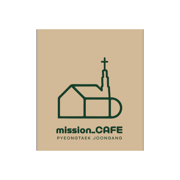
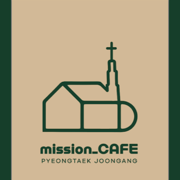
fix(pwa): 관리자 앱 아이콘 하얀 테두리 제거 및 로고 크기 최적화 (미션카페 관리자)

diff --git a/frontend/src/constants/releaseNotes.ts b/frontend/src/constants/releaseNotes.ts
@@ -23,6 +23,7 @@ export const RELEASE_NOTES: ReleaseNote[] = [
     updates: [
       { text: '사용자 주문 앱과 분리된 관리자 전용 독립 PWA 매니페스트(manifest-admin.webmanifest, scope: /admin/) 구축', isNew: true },
       { text: '관리자 전용 로고(admin_logo.png) 기반 앱 아이콘(admin-pwa-192, admin-pwa-512, admin-apple-touch-icon) 및 admin.html 적용', isNew: true },
+      { text: '관리자 앱 아이콘 테두리 하얀 여백 제거 및 로고 크기 꽉 차게 최적화 (단축명: 미션카페 관리자)', isNew: true },
       { text: 'Vercel /admin/* URL rewrite 설정으로 관리자 독립 홈 화면 추가 기능 지원', isNew: true }
     ]
   },

diff --git a/frontend/admin.html b/frontend/admin.html
@@ -11,7 +11,7 @@
   <link rel="manifest" href="/manifest-admin.webmanifest" />
   <meta name="apple-mobile-web-app-capable" content="yes" />
   <meta name="apple-mobile-web-app-status-bar-style" content="default" />
-  <meta name="apple-mobile-web-app-title" content="카페 관리자" />
+  <meta name="apple-mobile-web-app-title" content="미션카페 관리자" />
   <link rel="stylesheet" as="style" crossorigin
     href="https://cdn.jsdelivr.net/gh/orioncactus/pretendard@v1.3.9/dist/web/static/pretendard.min.css" />
 </head>

diff --git a/docs/develop/18_ADMIN_PWA_ANTIGRAVITY_PROMPT.md b/docs/develop/18_ADMIN_PWA_ANTIGRAVITY_PROMPT.md
@@ -1,0 +1,60 @@
+# Antigravity 실행 프롬프트 — 관리자 전용 PWA
+
+아래 문구와 함께 `18_ADMIN_PWA_SEPARATE_INSTALL.md`를 전달한다.
+
+```text
+저장소 루트에서 docs/antigravity/18_ADMIN_PWA_SEPARATE_INSTALL.md를 읽고,
+문서에 정의된 범위만 구현해 주세요.
+
+현재 Holy-Order는 하나의 React/Vite 앱에서 사용자 주문 화면과 /admin 관리자 화면을
+같이 제공하고 있으며, VitePWA 매니페스트와 index.html이 사용자 앱 기준으로 하나만
+존재합니다. 따라서 /admin에서 홈 화면에 추가해도 사용자 앱 이름과 아이콘으로
+설치될 수 있습니다.
+
+이번 작업의 목표는 같은 Vercel 프로젝트와 같은 백엔드를 유지하면서 다음 두 앱을
+홈 화면에 구분해 설치할 수 있도록 만드는 것입니다.
+
+- 사용자 PWA: 평택중앙교회 카페 / 시작 URL /
+- 관리자 PWA: 평택중앙교회 카페 관리자 / 시작 URL /admin/
+
+구현 전 현재 main 브랜치의 vite.config.ts, index.html, vercel.json, main.tsx,
+App.tsx, sw.ts와 관리자 라우트를 먼저 확인하세요. 문서의 예시를 맹목적으로 복사하지
+말고 현재 vite-plugin-pwa 버전과 실제 빌드 결과에 맞게 적용하세요.
+
+핵심 원칙은 다음과 같습니다.
+
+1. 기존 사용자 PWA의 앱 정체성을 보존하기 위해 사용자 manifest id는 /로 유지합니다.
+2. 관리자 manifest id는 /admin/으로 분리합니다.
+3. 사용자와 관리자용 HTML entry, manifest, apple-touch-icon, 앱 아이콘을 분리합니다.
+4. Vercel에서 /admin 및 /admin/*는 admin.html로 rewrite합니다.
+5. React 앱과 관리자 라우트를 복제하지 않고 기존 main.tsx와 App.tsx를 공유합니다.
+6. Service Worker는 기존 루트 sw.ts 하나만 유지합니다.
+7. 사용자 주문 완료 Push, 관리자 WebSocket, 새 주문 알림음, 영업 상태 실시간 반영에
+   회귀가 없어야 합니다.
+8. 관리자 PWA 설치는 인증 수단이 아니므로 기존 JWT와 ProtectedRoute를 유지합니다.
+9. 별도 Vercel 프로젝트, 별도 DB, 두 번째 Service Worker는 만들지 마세요.
+10. 현재 사용자 앱 아이콘을 관리자 이름으로 그대로 복제하지 말고 관리자 전용 아이콘을
+    사용하세요. 필요한 최종 아이콘 자산이 없으면 임의 배포하지 말고 필요한 규격을 보고하세요.
+
+구현 후 npm run lint와 npm run build를 실행하고, dist에 index.html, admin.html,
+manifest.webmanifest, manifest-admin.webmanifest, sw.js가 생성되는지 확인하세요.
+
+Vercel Preview에서 다음을 실기기로 검증하세요.
+
+- Android에서 사용자 앱과 관리자 앱이 서로 다른 이름과 아이콘으로 설치되는지
+- iPhone/iPad에서 각 HTML의 apple-touch-icon이 다르게 적용되는지
+- 관리자 앱 실행 시 /admin/ 또는 /admin/login으로 시작하는지
+- /admin/settings 직접 새로고침이 정상인지
+- Service Worker 등록이 하나인지
+- 기존 사용자 주문 Push가 정상인지
+- 관리자 새 주문 WebSocket과 알림음이 정상인지
+
+같은 Origin에서 두 PWA를 운영하므로 localStorage, 권한, Service Worker가 공유되는
+제한을 숨기지 말고 결과 보고에 명시하세요. 자동 설치 배너가 사용자 앱 설치 때문에
+관리자 페이지에서 표시되지 않는 브라우저가 있을 수 있으므로 수동 홈 화면 추가까지
+검증하세요.
+
+작업이 끝나면 변경 파일, manifest id/start_url/scope, 아이콘 경로, Vite 빌드 결과,
+Vercel rewrite 결과, Android/iPhone 실기기 결과, 기존 기능 회귀 테스트, 남은 제한,
+배포 및 롤백 방법을 순서대로 보고해 주세요.
+```
